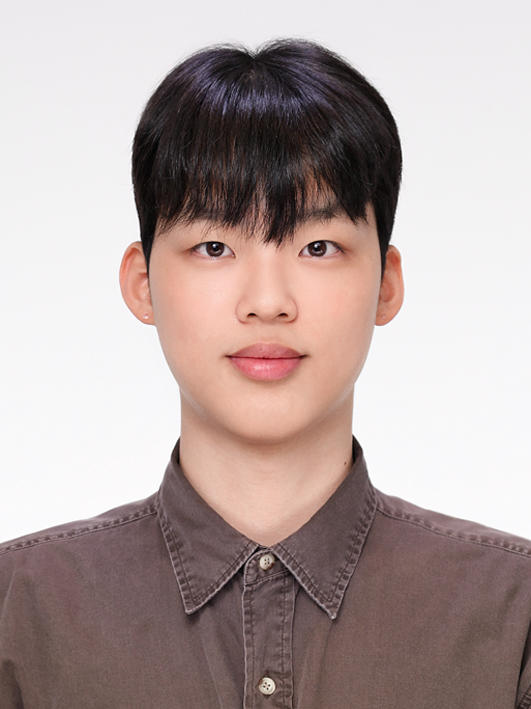
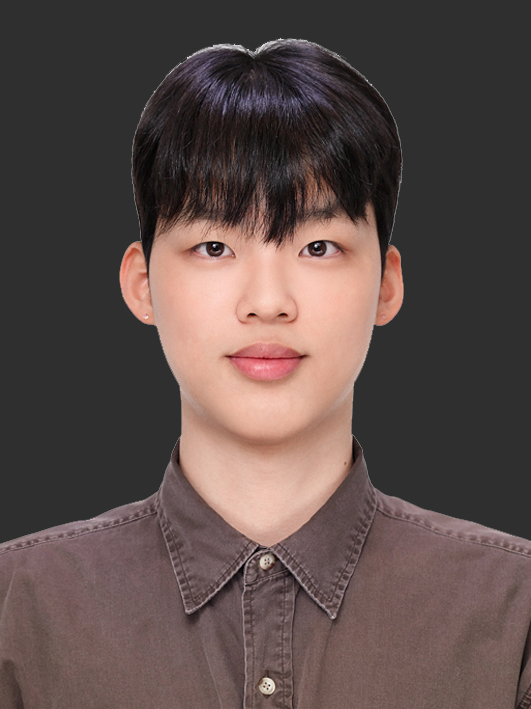
Feat : gif파일 추가 및 TopIntro 디자인변경

diff --git a/src/components/HomeTopIntro.jsx b/src/components/HomeTopIntro.jsx
@@ -1,7 +1,7 @@
 // copyright - Choi Jung mu
-// 2024-04-18 Update
+// 2024-04-21 Update
 //  업데이트 내용
-//  gsap 사용 익히기
+//  gsap로 Main 페이지 꾸미기
 
 // import the SCSS
 import "./Styles/Animation.css";
@@ -20,6 +20,9 @@ import Profile from "../assets/Profile.jpg";
 import wiretext from "../assets/wiretext.svg";
 import whitewire from "../assets/whitewire.svg";
 import wire from "../assets/wire.svg";
+import grow from "../assets/grow.gif";
+import talk from "../assets/talk.gif";
+import design from "../assets/design.gif";
 // import The gsap Animation
 import { gsap } from "gsap";
 import { useGSAP } from "@gsap/react";
@@ -59,6 +62,7 @@ function HomeTopIntro() {
       y: 800,
       ease: "power4.out",
       skewY: 5,
+      delay: 1,
       stagger: {
         amount: 0.3,
       },
@@ -68,34 +72,11 @@ function HomeTopIntro() {
       y: 800,
       ease: "power4.out",
       skewY: 3,
+      delay: 1,
+
       stagger: {
         amount: 0.3,
       },
-    });
-    animationMainText.from(".ball", 1.3, {
-      x: 300,
-      y: 200,
-      borderRadius: "none",
-      ease: "power4.out",
-      direction: 1,
-      delay: 0.1,
-      skewY: 3,
-    });
-    animationMainText.to(".ball", 1, {
-      x: 300,
-      y: 200,
-      borderRadius: "9999px",
-      ease: "power4.out",
-      delay: 0.1,
-      skewY: 3,
-    });
-    animationMainText.to(".ball", 1, {
-      x: -200,
-      y: -150,
-      borderRadius: "none",
-      ease: "power4.out",
-      delay: 0.1,
-      skewY: 3,
     });
   }, []);
   const HandleFrontEndHover = (e) => {
@@ -115,28 +96,39 @@ function HomeTopIntro() {
       ref={container}
       className="overflow-hidden text-white w-full relative h-full flex-col justify-center items-center flex"
     >
-      <div className="TopIntro opacity-100 flex z-50 bg-black flex-row w-full h-full justify-center items-center">
+      <div className="TopIntro flex z-50 bg-black flex-row w-full h-full justify-center items-center">
         <div className="absolute flex text-white">FRONTENDDEVELOPER</div>
       </div>
-      <div className="absolute text-[150px] w-full h-full flex flex-col font-nanum-square-neo-heavy">
-        <div className="textContainer">
-          <p className="animationMainText">JUNGMU</p>
-        </div>
-        <div className="textContainer">
-          <p className="animationMainText whitespace">FRONTEND WEB</p>
-        </div>
-        <div className="textContainer">
-          <p className="animationMainText">PORTPOLIO</p>
-        </div>
-        <div className="w-full h-full flex justify-center absolute items-center">
-          <div className="ball w-[100px] h-[100px] bg-red-300 rounded rounded-full"></div>
-        </div>
-        <div className="flex font-nanum-square-neo-Bold text-5xl hidden gap-6 justify-center w-full">
-          <span>Skill</span>
-          <span>Portpolio</span>
-          <span>Design</span>
-          <span>AboutMe</span>
-          <span>ContactMe</span>
+      {/* Main */}
+      <div className="absolute  w-[60%] h-full flex ">
+        <div className="w-full h-full flex flex-col mt-36">
+          {/* mainText */}
+          <h1 className="text-5xl relative z-10 font-nanum-square-neo-heavy">
+            <p className="mb-1">Nice to meet you!</p>
+            <p>
+              I'm{" "}
+              <span className="border-b-4 pb-1 border-b-green-400">
+                Choi Jung Mu.
+              </span>
+            </p>
+          </h1>
+          {/* subText */}
+          <div className="text-center">
+            <h3 className="mt-12 text-2xl font-nanum-square-neo- mb-3">
+              <span className=" font-nanum-square-neo-heavy text-4xl text-green-400">
+                Choi Jung Mu
+              </span>
+              는 어떤사람인가요?
+            </h3>
+            <h3 className="text-lg">
+              <p>올바른 성장이란 무엇일까를 고민하고 있습니다.</p>
+              {/* <p>좋은 커뮤니케이션이 되기 위해 분위기를 바꾸려고합니다.</p> */}
+              {/* <p>심미성과 편리성을 갖춘 웹을 만들기 위해 고민합니다.</p> */}
+            </h3>
+          </div>
+          <div className="relative h-full flex justify-center">
+            <img src={design} alt="" />
+          </div>
         </div>
       </div>
     </div>

diff --git a/README.md b/README.md
@@ -4,12 +4,14 @@
 
 ## 업데이트 내용
 
+메인페이지 GIF 넣기.
+
 ## GSAP으로 ScrollTrigger 활용
 
-> 2024-04-18
-> GSAP 활용 ScrollTrigger
+> 2024-04-21
+> GSAP를 활용하여 메인페이지 꾸미기
 > 개발목표
-> React를 이용한 다양한 animation 구현 및 미디어쿼리를 이용한 반응형 웹사이트 구축
+> React, GSAP를 이용한 다양한 animation 구현 및 미디어쿼리를 이용한 반응형 웹사이트 구축
 
 > 사용기술
 
@@ -22,4 +24,6 @@
 - GSAP
 - Recoil
   > 코드리뷰
-  > fromTo를 이용해보았는데 조금 더 짧게 코드를 작성 할 수 있을 것 같은데 그 부분이 어려웠습니다.
+  > gsap를 이용하여 메인 페이지를 꾸미는데 디자인적인 요소와 나를 잘 표현하고 싶은데
+  > 잘 표현되지 않아 어려웠습니다. 그래서 웹사이트를 찾아보며 기술적인 요소와
+  > 템플릿 예시를 보니 어느정도 감이 왔습니다!
